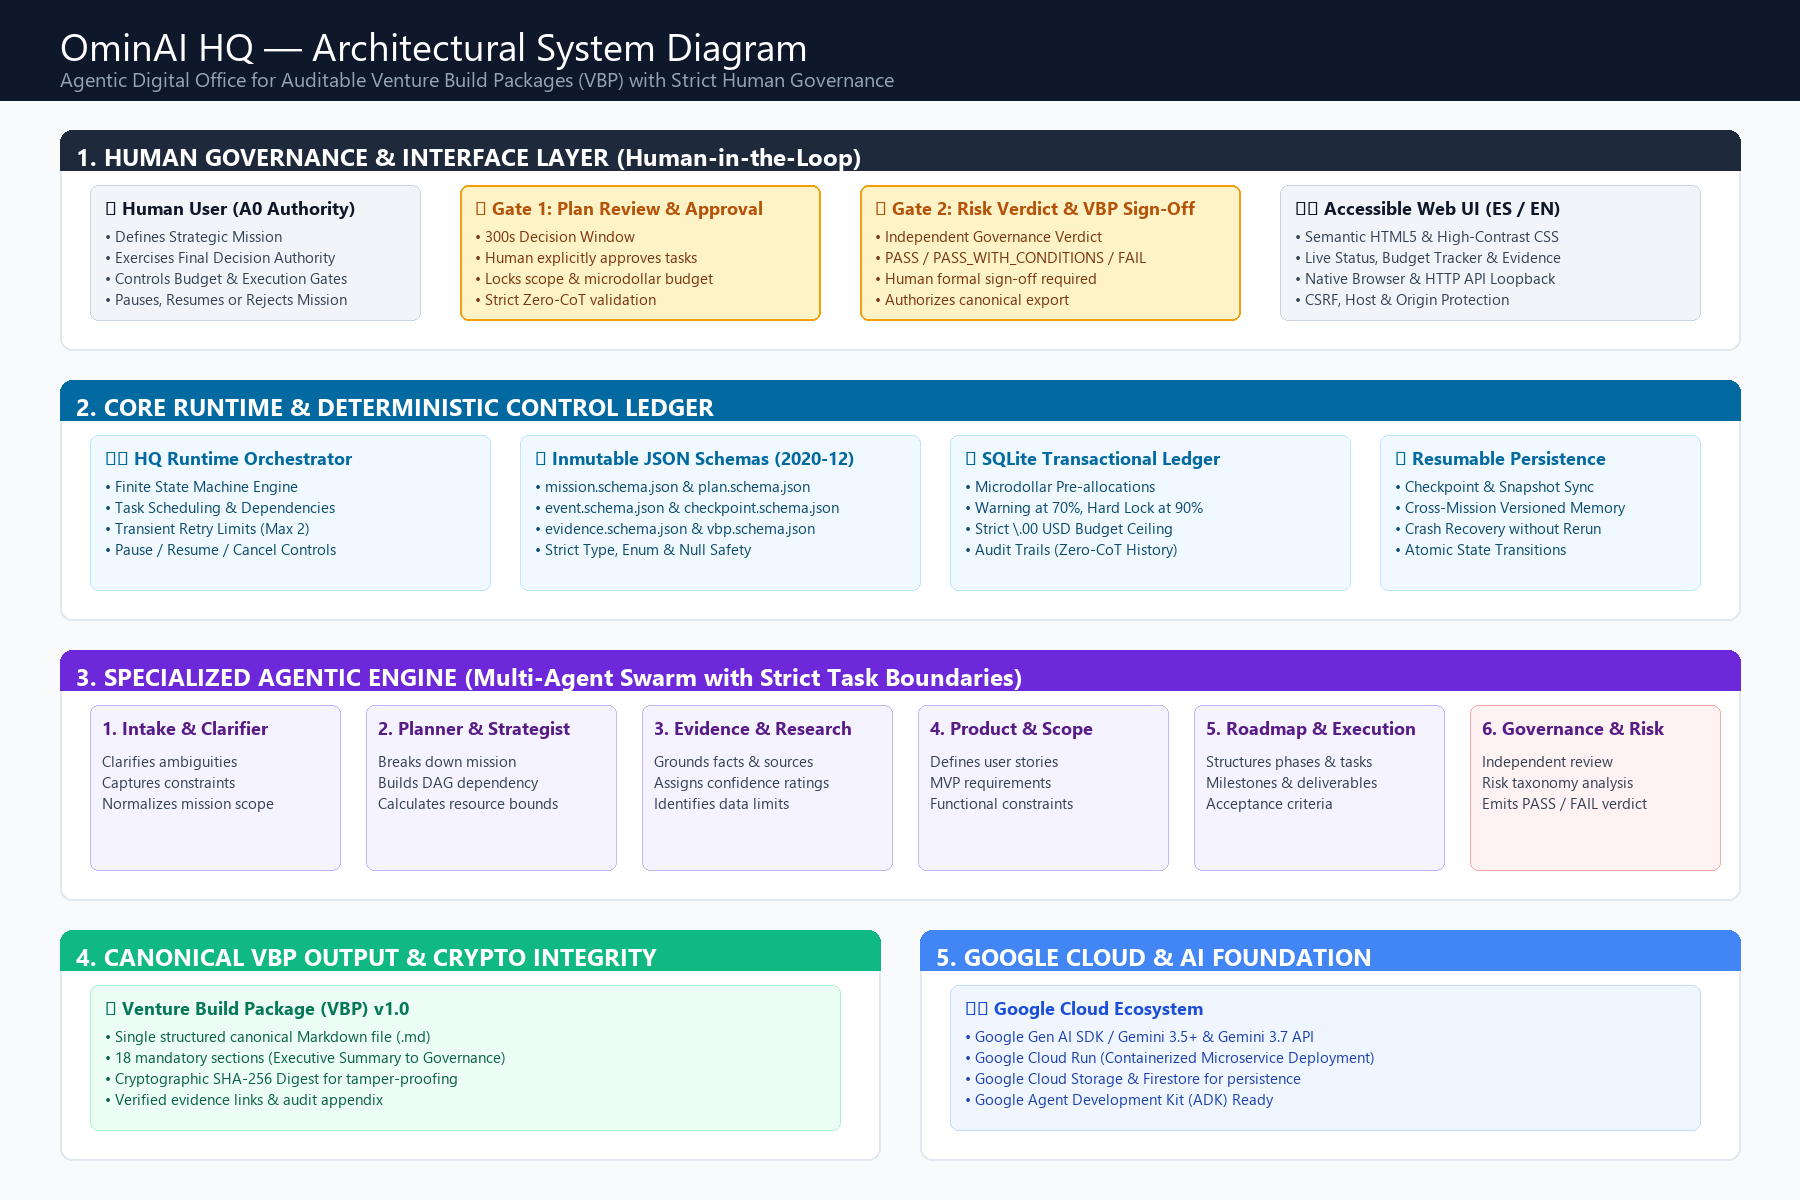
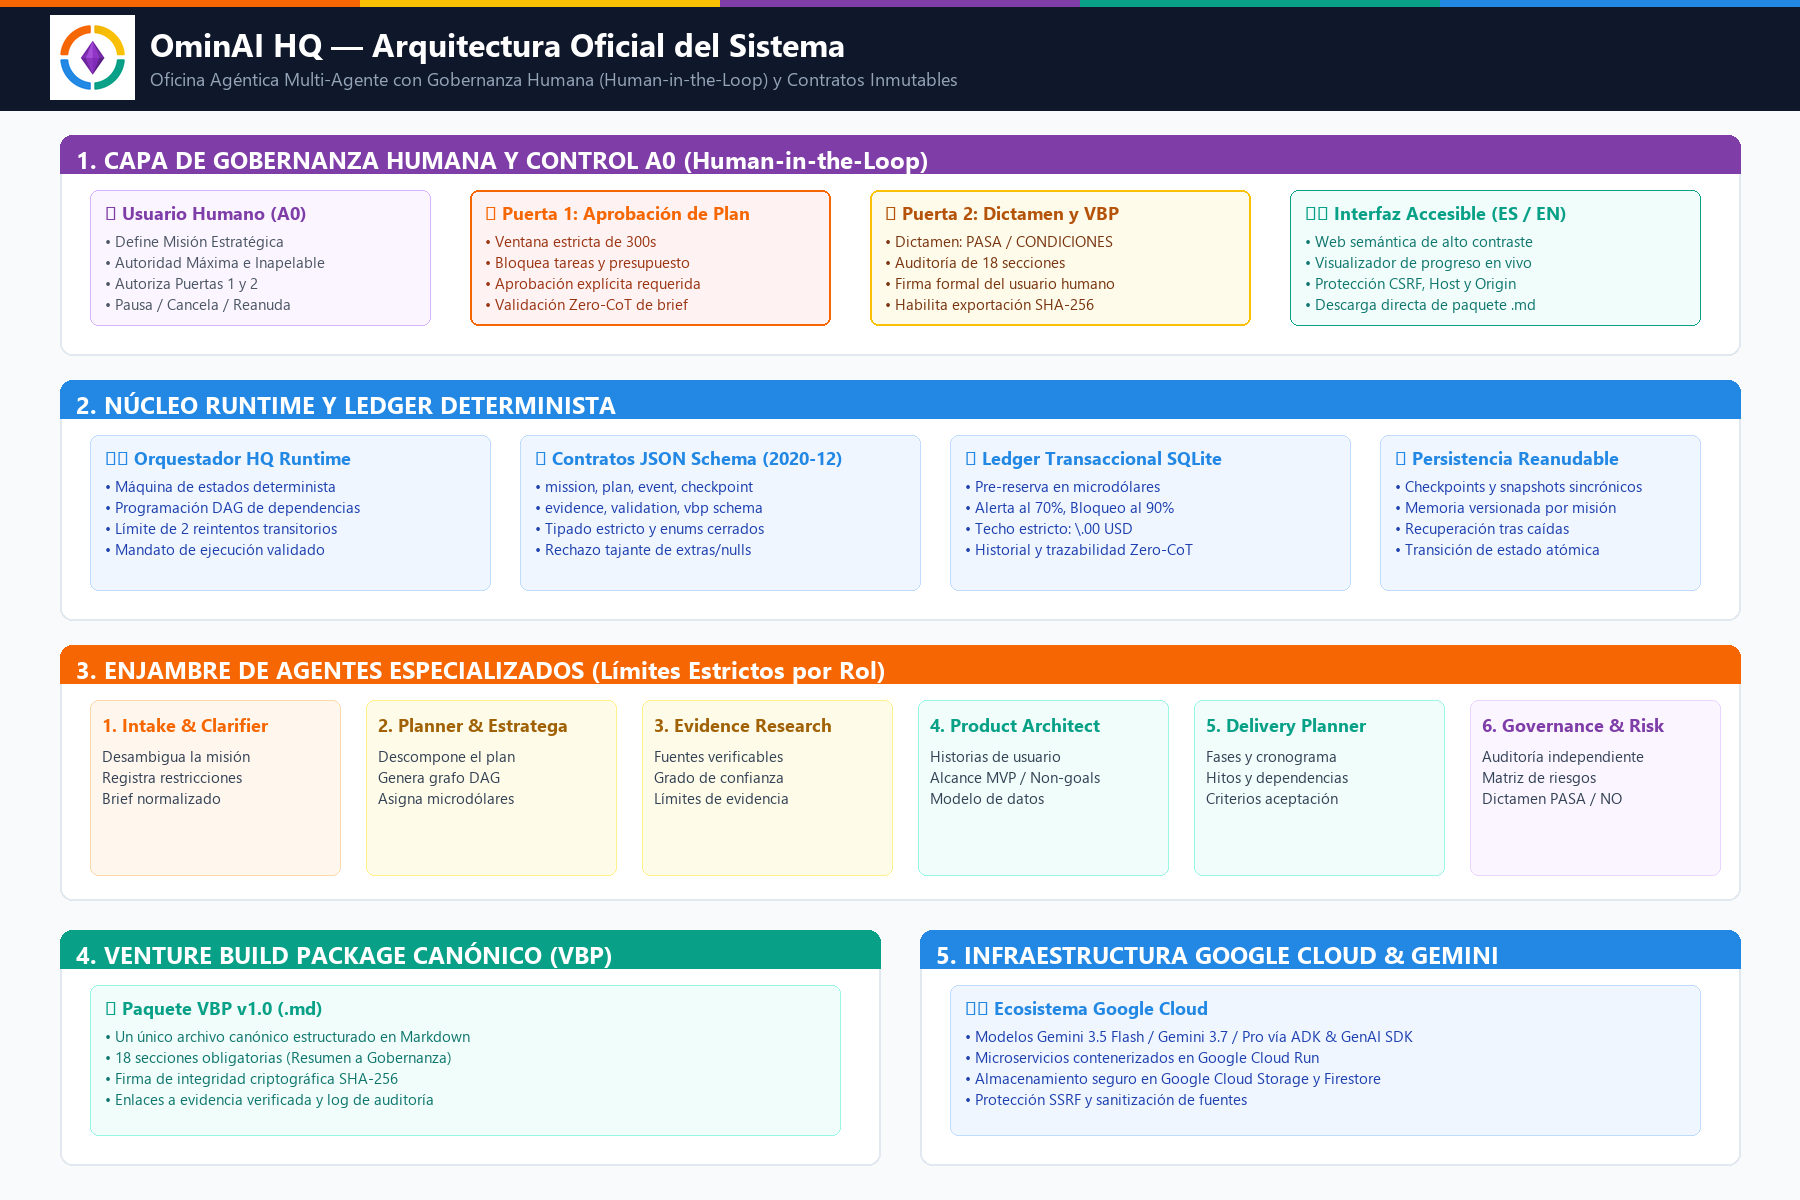
docs: add presentation assets and brand guidelines

diff --git a/GUIA_DE_MARCA_Y_PRESENTACION.md b/GUIA_DE_MARCA_Y_PRESENTACION.md
@@ -1,0 +1,59 @@
+# Guía Oficial de Marca y Presentación — OminAI HQ
+
+Este documento reúne la paleta de colores oficial extraída del isotipo de **OminAI HQ**, su significado funcional dentro de la arquitectura del sistema y los lineamientos para presentaciones, diapositivas y material promocional.
+
+---
+
+## 1. Paleta de Colores de la Marca (Identidad Visual)
+
+| Elemento del Logo | Color | Código HEX | RGB | Capa del Sistema Asociada |
+|---|---|---|---|---|
+| **Prisma Central (Diamante)** | **Púrpura / Violeta** | #7F3DA8 / #A249D5 | (127, 61, 168) | **Capa 1:** Gobernanza Humana (A0), Autoridad Máxima y Puertas 1 & 2 |
+| **Arco Superior Izquierdo** | **Naranja Vibrante** | #F66703 | (246, 103, 3) | **Capa 2:** Misión, Intake & Clarificación de Objetivos |
+| **Arco Superior Derecho** | **Ámbar / Amarillo Dorado**| #FAC003 | (250, 192, 3) | **Capa 3:** Investigación de Mercado, Evidencia y Fuentes Verificables |
+| **Arco Inferior Derecho** | **Verde Esmeralda / Teal** | #08A087 | (8, 160, 135) | **Capa 4:** Arquitectura de Producto, Roadmap & VBP Canónico |
+| **Arco Inferior Izquierdo** | **Azul Eléctrico Google** | #2288E4 | (34, 136, 228) | **Capa 5:** Runtime Determinista, SQLite Ledger & Google Cloud Run |
+| **Fondo Principal Oscuro** | **Slate Navy (Fondo)** | #0F172A | (15, 23, 42) | Fondo de alto contraste para diapositivas y dark-mode |
+| **Fondo Principal Claro** | **Slate Light (Fondo)** | #F8FAFC | (248, 250, 252) | Fondo limpio para diagramas arquitectónicos y reportes |
+
+---
+
+## 2. Activos Visuales Generados y Listos para Usar
+
+Todos estos archivos están disponibles en la carpeta principal del proyecto (c:\Users\Nivez\Desktop\08_Ominai\OminAIHQ):
+
+1. **diagrama_arquitectura_ominai_hq.png** *(1800 × 1200 px)*:
+   * Diagrama arquitectónico oficial con el logo en el encabezado, la cinta cromática de 5 colores y las tarjetas organizadas por capa.
+2. **slide_01_portada_oficial_16x9.png** *(1920 × 1080 px)*:
+   * Diapositiva de portada para Google Slides, Canva o PowerPoint con logo oficial, tipografía jerárquica y badges del hackathon.
+3. **miniatura_ominai_hq_3x2.png** *(1200 × 800 px - Proporción 3:2)*:
+   * Miniatura oficial para la plataforma Devpost sobre fondo blanco.
+4. **miniatura_ominai_hq_branded_3x2.png** *(1200 × 800 px)*:
+   * Miniatura con isotipo y subtítulo *'Agentic Venture Building Office'*.
+5. **miniatura_ominai_hq_dark_3x2.png** *(1200 × 800 px)*:
+   * Miniatura con isotipo sobre fondo oscuro Slate.
+
+---
+
+## 3. Tipografía Recomendada para Diapositivas y Gráficos
+
+* **Títulos y Encabezados:** Segoe UI Bold, Inter Bold o Google Sans Bold.
+* **Cuerpo de Texto y Subtítulos:** Segoe UI, Inter o Roboto.
+* **Código y Datos Numéricos:** JetBrains Mono, Fira Code o Consolas.
+
+---
+
+## 4. Estructura Sugerida para el Pitch Deck / Presentación en Video (4 Minutos)
+
+1. **Slide 1 (0:00 - 0:40) — Portada y Problema:**
+   * Usar slide_01_portada_oficial_16x9.png.
+   * Explicar el caos de los agentes 'caja negra' y la falta de gobierno en la IA empresarial.
+2. **Slide 2 (0:40 - 1:30) — La Solución (OminAI HQ):**
+   * Oficina agéntica que produce el Venture Build Package (VBP) con 18 secciones y gobernanza en 2 puertas.
+3. **Slide 3 (1:30 - 2:30) — Arquitectura y Gobernanza:**
+   * Usar diagrama_arquitectura_ominai_hq.png.
+   * Explicar el rol de los 5 especialistas, los contratos JSON Schema y el ledger en SQLite con tope de  USD.
+4. **Slide 4 (2:30 - 3:30) — Demostración Práctica:**
+   * Mostrar la interfaz web local (http://127.0.0.1:8000) o consola de Google Cloud Run: ingreso de misión, aprobación de Puerta 1, ejecución de agentes, dictamen de riesgo y descarga del VBP sellado con SHA-256.
+5. **Slide 5 (3:30 - 4:00) — Cierre y Ecosistema Google Cloud:**
+   * Modelos Gemini 3.5/3.7, Google ADK, Cloud Run y Cloud Storage. Autoridad final siempre en el usuario humano.
